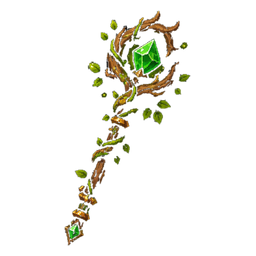
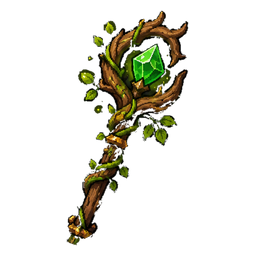
Staves: fix missing pieces — switch to floodfill cut
The chroma-distance cut severed dark cable sections and the small-component
cull then dropped the isolated tips (e.g. the fire staff's base gem), so staves
looked broken. Recut with a flood fill from the background corners, which only
removes background connected to the edges and never deletes interior staff
pixels. Item image cache v=10 -> v=11.

Changed region(s): [[0.25, 0.0312, 0.75, 0.9688]]

diff --git a/scenes/GamePreloadScene.js b/scenes/GamePreloadScene.js
@@ -116,7 +116,7 @@ export default class GamePreloadScene extends Phaser.Scene {
     this.loadSheet("boss-rock-proj", "./assets/sprites/boss-rock-proj-sheet.png?v=10", 128, 128);
     this.loadImage("alchemist-interior", "./assets/sprites/alchemist-interior.png?v=154");
     this.loadSheet("alchemy-vendor", "./assets/sprites/alchemy-vendor-sheet.png?v=9", 108, 108);
-    ALCHEMIST_ITEMS.forEach((it) => this.loadImage(it.key, `./assets/items/${it.key}.png?v=10`));
+    ALCHEMIST_ITEMS.forEach((it) => this.loadImage(it.key, `./assets/items/${it.key}.png?v=11`));
     this.loadImage("volcano-gate-raw", "./assets/sprites/volcano-gate.png?v=10");
     this.loadImage("swamp-gate-raw",   "./assets/sprites/swamp-gate.png?v=10");
     this.loadImage("hive-gate-raw",    "./assets/sprites/hive-gate.png?v=10");

diff --git a/main.js b/main.js
@@ -1,6 +1,6 @@
 import BootScene from "./scenes/BootScene.js?v=199";
 import PreloadScene from "./scenes/PreloadScene.js?v=233";
-import GamePreloadScene from "./scenes/GamePreloadScene.js?v=260";
+import GamePreloadScene from "./scenes/GamePreloadScene.js?v=261";
 import TitleScene from "./scenes/TitleScene.js?v=258";
 import WorldScene from "./scenes/WorldScene.js?v=295";
 import VillageWestScene from "./scenes/VillageWestScene.js?v=72";

diff --git a/index.html b/index.html
@@ -13,6 +13,6 @@
   </head>
   <body>
     <div id="game"></div>
-    <script type="module" src="./main.js?v=323"></script>
+    <script type="module" src="./main.js?v=324"></script>
   </body>
 </html>
